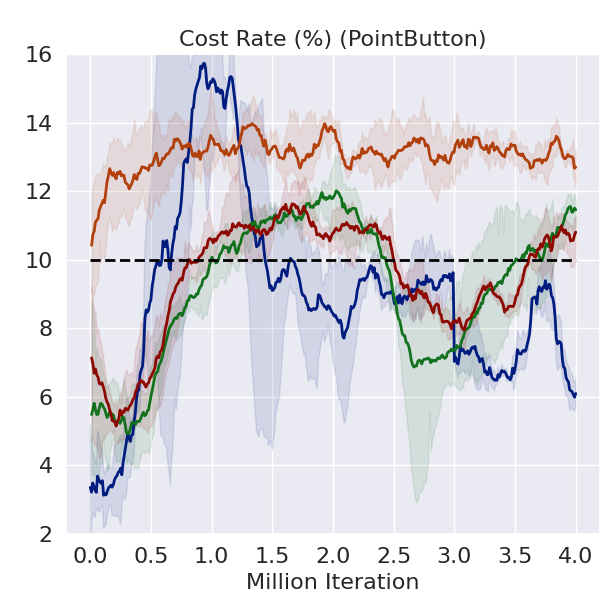
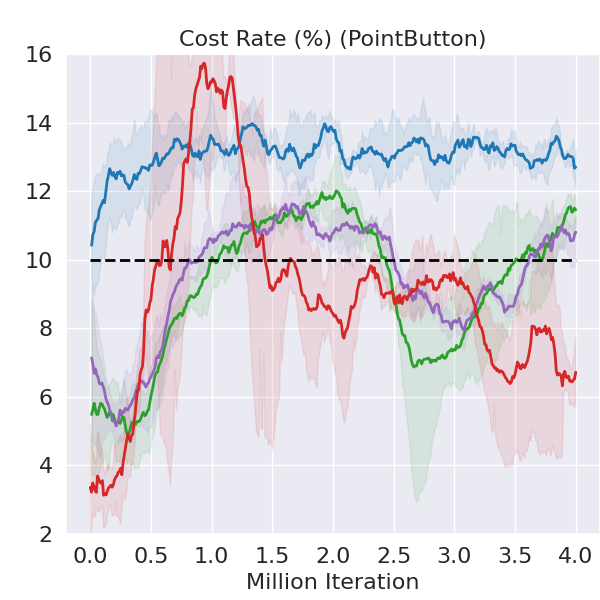
update lineplot

diff --git a/data_process/lineplot_mujoco_raw_spd.py b/data_process/lineplot_mujoco_raw_spd.py
@@ -13,25 +13,26 @@ from tensorboard.backend.event_processing import event_accumulator
 import json
 
 sns.set(style="darkgrid")
-SMOOTHFACTOR = 0.9
+SMOOTHFACTOR = 0.8 # 1 3 7 halfcheetah
 SMOOTHFACTOR2 = 20
-SMOOTHFACTOR3 = 20
+SMOOTHFACTOR3 = 30
 DIV_LINE_WIDTH = 50
 txt_store_alg_list = ['CPO', 'PPO-Lagrangian', 'TRPO-Lagrangian']
-ylim_dict = {'episode_return':{'CarGoal': [-5, 25],'PointButton': [-5, 33]},
-             'episode_cost':{'CarGoal': [0, 28],'PointButton': [2, 16]}} # {'CarGoal': [-5, 25]}
-fsac_bias = {'episode_return':{'PointButton':5,'CarGoal':0,},'episode_cost':{'PointButton':20,'CarGoal':0}}
-fsac_init_bias = {'episode_return':{'PointButton':10,'CarGoal':0,},'episode_cost':{'PointButton':0,'CarGoal':0}}
+base_dict = dict(HalfCheetah=1.5, Ant=1.5, Walker2d=1.5)
+fsac_final_list = ['conti100HalfCheetah-2021-05-13-20-58-14-s4', 'conti100HalfCheetah-2021-05-14-00-33-41-s2'
+                   ,'conti240HalfCheetah-2021-05-14-22-26-58-s3']
+ylim_dict = {'episode_return':{'HalfCheetah': [-1000,2500]},'episode_cost':{}}
+fsac_bias = {'episode_return':{'Ant':-1000,'HalfCheetah':0,'Walker2d':0,},'episode_cost':{'Ant':0.675,'HalfCheetah':0,'Walker2d':0,}}
 
 
 def help_func():
     tag2plot = ['episode_return']
-    alg_list = ['CPO', 'PPO-Lagrangian', 'TRPO-Lagrangian', 'FSAC', ]  # 'FSAC', 'CPO', 'SAC','SAC-Lagrangian',
-    lbs = ['CPO', 'PPO-L', 'TRPO-L', 'FAC', ]  # 'FAC', 'CPO', 'SAC','SAC-Lagrangian',
-    task = ['CarGoal']
-    palette = "dark"
+    alg_list = ['CPO','PPO-Lagrangian','TRPO-Lagrangian','FSAC',  ] # 'FSAC', 'CPO', 'SAC','SAC-Lagrangian',
+    lbs = ['CPO','PPO-L','TRPO-L','FAC',] #  'FAC', 'CPO', 'SAC','SAC-Lagrangian',
+    task = ['Ant']
+    palette = "bright"
     goal_perf_list = [-200, -100, -50, -30, -20, -10, -5]
-    dir_str = '../results/{}/{}/data2plot' # .format(algo name) #
+    dir_str = '../results/{}/{}/data2plot' # .format(algo name) # /data2plot
     return tag2plot, alg_list, task, lbs, palette, goal_perf_list, dir_str
 
 def plot_eval_results_of_all_alg_n_runs(dirs_dict_for_plot=None):
@@ -46,11 +47,12 @@ def plot_eval_results_of_all_alg_n_runs(dirs_dict_for_plot=None):
             data2plot_dir = dir_str.format(alg, task)
             data2plot_dirs_list = dirs_dict_for_plot[alg] if dirs_dict_for_plot is not None else os.listdir(data2plot_dir)
             for num_run, dir in enumerate(data2plot_dirs_list):
-                if not dir.startswith('skip'):
+                if not (dir.startswith('skip')):
                     if alg in txt_store_alg_list:
                         eval_dir = data2plot_dir + '/' + dir
                         print(eval_dir)
                         df_in_one_run_of_one_alg = get_datasets(eval_dir, tag2plot, alg=alg, num_run=num_run)
+                        tag = tag2plot[0]
                     else:
                         eval_dir = data2plot_dir + '/' + dir + '/logs/evaluator'
                         print(eval_dir)
@@ -63,57 +65,74 @@ def plot_eval_results_of_all_alg_n_runs(dirs_dict_for_plot=None):
                             event = event_pb2.Event.FromString(eval_summary.numpy())
                             if dir.startswith('conti150'):
                                 step = int(event.step + 1500000)
-                            elif dir.startswith('conti'):
+                            elif dir.startswith('conti100'):
                                 step = int(event.step + 1000000)
-                            elif dir.startswith('add'):
-                                step = int(event.step + 2800000)
+                            elif dir.startswith('conti40'):
+                                step = int(event.step + 400000)
+                            elif dir.startswith('conti220'):
+                                step = int(event.step + 2200000)
+                            elif dir.startswith('conti240'):
+                                step = int(event.step + 2400000)
+                            elif dir.startswith('short'):
+                                step = int(event.step / 7200) * 10000
                             else:
                                 step = event.step
-                            if step % 10000 == 0:
-                                if (not dir.startswith('add')) and  step > 3000000:
-                                    continue
-                                if dir.startswith('add') and step < 3000000:
-                                    continue
+                            if step <= 3000000:
                                 if dir.startswith('half') and step > 1500000:
                                     continue
-                                if dir.startswith('init') and step > 1000000:
+                                if dir.startswith('init40') and step > 400000:
+                                    continue
+                                if dir.startswith('init100') and step > 2400000:
+                                    continue
+                                if dir.startswith('init150') and step > 1500000:
+                                    continue
+                                if dir.startswith('init240') and step > 2400000:
+                                    continue
+                                if dir.startswith('init220') and step > 2200000:
                                     continue
                                 for v in event.summary.value:
                                     t = tf.make_ndarray(v.tensor)
                                     for tag in tag2plot:
-                                        if tag == v.tag[11:]:
-                                            data_in_one_run_of_one_alg[tag].append((1-SMOOTHFACTOR)*data_in_one_run_of_one_alg[tag][-1] + SMOOTHFACTOR*float(t)
-                                                                                   if data_in_one_run_of_one_alg[tag] else float(t))
-
+                                        if dir.startswith('velo') and tag == 'episode_cost' and v.tag[11:]=='episode_velo_mean':
+                                            data_in_one_run_of_one_alg[tag].append(
+                                                (1 - SMOOTHFACTOR) * data_in_one_run_of_one_alg[tag][
+                                                    -1] + SMOOTHFACTOR * float(t) / 1.69 * 1.490
+                                                if data_in_one_run_of_one_alg[tag] else float(t)/ 1.69 * 1.490)
                                             data_in_one_run_of_one_alg['iteration'].append(int(step))
-                        add_data = []
-                        add_step = []
-                        k = 0
+                                        elif dir.startswith('over') and tag == 'episode_cost' and v.tag[11:]=='episode_velo_mean':
+                                            data_in_one_run_of_one_alg[tag].append(
+                                                (1 - SMOOTHFACTOR) * data_in_one_run_of_one_alg[tag][
+                                                    -1] + SMOOTHFACTOR * float(t) / 240.0 * 136.0
+                                                if data_in_one_run_of_one_alg[tag] else float(t)/ 240.0 * 136.0)
+                                            data_in_one_run_of_one_alg['iteration'].append(int(step))
+                                        # elif alg=='FSAC' and task=='Ant' and tag == 'episode_return' and v.tag[11:]=='episode_return':
+                                        #     data_in_one_run_of_one_alg[tag].append(
+                                        #         (1 - SMOOTHFACTOR) * data_in_one_run_of_one_alg[tag][
+                                        #             -1] + SMOOTHFACTOR * float(t) / 138.0 * 149.0
+                                        #         if data_in_one_run_of_one_alg[tag] else float(t)/ 138.0 * 149.0)
+                                        #     data_in_one_run_of_one_alg['iteration'].append(int(step))
+                                        # elif tag ==  v.tag[11:] :
+                                        elif tag == 'episode_cost' and v.tag[11:] == 'episode_velo_mean':
+                                            data_in_one_run_of_one_alg[tag].append(
+                                                (1 - SMOOTHFACTOR) * data_in_one_run_of_one_alg[tag][
+                                                    -1] + SMOOTHFACTOR * float(t)
+                                                if data_in_one_run_of_one_alg[tag] else float(t))
+                                            data_in_one_run_of_one_alg['iteration'].append(int(step))
+                                        elif tag == 'episode_return' and v.tag[11:]=='episode_return':
+                                            data_in_one_run_of_one_alg[tag].append(
+                                                (1 - SMOOTHFACTOR) * data_in_one_run_of_one_alg[tag][
+                                                    -1] + SMOOTHFACTOR * float(t)
+                                                if data_in_one_run_of_one_alg[tag] else float(t))
+                                            data_in_one_run_of_one_alg['iteration'].append(int(step))
                         for i,d in enumerate(data_in_one_run_of_one_alg[tag]):
                             step = data_in_one_run_of_one_alg['iteration'][i]
                             if step < 1e6:
-                                data_in_one_run_of_one_alg[tag][i] += (1e6 - step) / 1e6 * fsac_init_bias[tag][task]
-                            if step > 2.9e6:
-                                if tag == 'episode_cost':
-                                    data_in_one_run_of_one_alg[tag][i] += (4e6 - step) / 1e6 * fsac_bias[tag][task]
-                                if tag == 'episode_return':
-                                    add_data.append(
-                                        data_in_one_run_of_one_alg[tag][i] - (4e6 - step) / 1e6 * fsac_bias[tag][
-                                            task])  #
-                                    add_step.append(step)
-                                    data_in_one_run_of_one_alg[tag][i] += (4e6 - step) / 1e6 * fsac_bias[tag][task]
-                        if tag == 'episode_return':
-                            print(add_step)
-                            print(add_data)
-                            data_in_one_run_of_one_alg['iteration'] += add_step
-                            data_in_one_run_of_one_alg[tag] += add_data
+                                data_in_one_run_of_one_alg[tag][i] += (1e6 - step) / 1e6 * fsac_bias[tag][task]
                         len1, len2 = len(data_in_one_run_of_one_alg['iteration']), len(data_in_one_run_of_one_alg[tag2plot[0]])
                         period = int(len1/len2)
                         data_in_one_run_of_one_alg['iteration'] = [data_in_one_run_of_one_alg['iteration'][i*period]/1000000. for i in range(len2)]
                         if 'episode_cost' in data_in_one_run_of_one_alg.keys():
-                            data_in_one_run_of_one_alg['episode_cost'] = np.array(data_in_one_run_of_one_alg[
-                                                                             'episode_cost']) / 10
-
+                            data_in_one_run_of_one_alg['episode_cost'] = np.array(data_in_one_run_of_one_alg['episode_cost'])
                         data_in_one_run_of_one_alg.update(dict(algorithm=alg, num_run=num_run))
                         df_in_one_run_of_one_alg = pd.DataFrame(data_in_one_run_of_one_alg)
                         y = np.ones(SMOOTHFACTOR2)
@@ -124,13 +143,17 @@ def plot_eval_results_of_all_alg_n_runs(dirs_dict_for_plot=None):
                             df_in_one_run_of_one_alg[tag] = smoothed_x
                     df_list.append(df_in_one_run_of_one_alg)
                     lendf = len(df_in_one_run_of_one_alg[tag2plot[0]])
-                    if not dir.startswith('init'):
-                        final_results[alg] += list(df_in_one_run_of_one_alg[tag2plot[0]][lendf - 21: lendf - 1])
+                    if alg == 'FSAC' and task == 'HalfCheetah':
+                        if dir in fsac_final_list:
+                            final_results[alg]+= list(df_in_one_run_of_one_alg[tag2plot[0]][lendf-21: lendf-1]) # TODO: consider conti if exists
+                    else:
+                        if not dir.startswith('init'):
+                            final_results[alg] += list(df_in_one_run_of_one_alg[tag2plot[0]][lendf - 21: lendf - 1])
         compare_dict = dump_results(final_results)
         total_dataframe = df_list[0].append(df_list[1:], ignore_index=True) if len(df_list) > 1 else df_list[0]
         figsize = (6,6)
-        axes_size = [0.11, 0.11, 0.89, 0.8] #if env == 'path_tracking_env' else [0.095, 0.11, 0.905, 0.89]
-        fontsize = 16
+        axes_size = [0.13, 0.11, 0.87, 0.75] #if env == 'path_tracking_env' else [0.095, 0.11, 0.905, 0.89]
+        fontsize = 18
         f1 = plt.figure(1, figsize=figsize)
         ax1 = f1.add_axes(axes_size)
         sns.set_palette([(0.12156862745098039, 0.4666666666666667, 0.7058823529411765),
@@ -144,44 +167,45 @@ def plot_eval_results_of_all_alg_n_runs(dirs_dict_for_plot=None):
                          (0.7372549019607844, 0.7411764705882353, 0.13333333333333333),
                          (0.09019607843137255, 0.7450980392156863, 0.8117647058823529)]
                         )
-        sns.lineplot(x="iteration", y=tag2plot[0], hue="algorithm", err_kws={'alpha': 0.1},
-                     data=total_dataframe, linewidth=2, legend=False  # palette=palette,
+        sns.lineplot(x="iteration", y=tag2plot[0], hue="algorithm", err_kws={'alpha':0.1},
+                     data=total_dataframe, linewidth=2 , legend=False # palette=palette,
                      )
-        # legend = True if task == 'CarGoal' and tag == 'episode_cost' else False
-        # if not legend:
-        #     sns.lineplot(x="iteration", y=tag2plot[0], hue="algorithm", markers=True,
-        #                  data=total_dataframe, linewidth=2, palette=palette, legend=False, err_kws={'alpha':0.1}
-        #                  )
-        # else:
-        #     p = sns.lineplot(x="iteration", y=tag2plot[0], hue="algorithm", markers=True,
-        #                  data=total_dataframe, linewidth=2, palette=palette, err_kws={'alpha':0.1}
-        #                  )
-        base = 4 if task == 'PointGoal' else 10
+        base = base_dict[task]
         handles, labels = ax1.get_legend_handles_labels()
+        print(handles)
+        print(labels)
         labels = lbs
         if tag == 'episode_cost':
-            basescore = sns.lineplot(x=[0., 4.], y=[base, base], linewidth=2, color='black', linestyle='--')
-        #     if legend:
-        #         ax1.legend(handles=handles + [basescore.lines[-1]], labels=labels + ['Constraint'], loc='lower right',
-        #                frameon=False, fontsize=fontsize)
-        # else:
-        #     if legend:
-        #         ax1.legend(handles=handles , labels=labels , loc='lower right', frameon=False, fontsize=fontsize)
-        # print(ax1.lines[0].get_data())
+            basescore = sns.lineplot(x=[0., 3.], y=[base, base], linewidth=2, color='black', linestyle='--')
+        # handles_ = [handles[-1]] + handles[:-1] + [basescore.lines[-1]]
+        #
+        # labels_ = [labels[-1]] + labels[:-1] + ['Constraint']
         ax1.set_ylabel('')
         ax1.set_xlabel("Million Iteration", fontsize=fontsize)
         print(compare_dict)
-        # title = 'Episode Return {} \n {:+.0%} {:+.0%} {:+.0%}\n over TRPO-L, CPO, PPO-L'\
-        #     .format(task, compare_dict['TRPO-Lagrangian'], compare_dict['CPO'], compare_dict['PPO-Lagrangian']) if tag == 'episode_return' else 'Episode Cost'
-        title = 'Reward ({})'.format(task) if tag == 'episode_return' else 'Cost Rate (%) ({})'.format(task)
+        title = 'Reward ({}) \n {:+.0%}, {:+.0%}, {:+.0%}\n over CPO, TRPO-L, PPO-L'\
+            .format(task, compare_dict.get('CPO'), compare_dict.get('TRPO-Lagrangian'), compare_dict.get('PPO-Lagrangian')) if tag == 'episode_return' else 'Speed ({})'.format(task)
+        ax1.set_title(title, fontsize=fontsize)
+        # ax1.set_xlim(0,3)
         if task in ylim_dict[tag]:
             ax1.set_ylim(*ylim_dict[tag][task])
-        ax1.set_title(title, fontsize=fontsize)
         plt.yticks(fontsize=fontsize)
         plt.xticks(fontsize=fontsize)
         # plt.show()
-        fig_name = '../data_process/figure/' + task+'-'+tag + '.png'
+        fig_name = '../data_process/figure/' + task+'-'+tag + 'spd.png'
         plt.savefig(fig_name)
+        # legfig, legax = plt.subplots(figsize=(8, 1))
+        # legax.set_facecolor('white')
+        # if legend:
+        #     leg = legax.legend(handles=handles_, labels=labels_ + ['Constraint'],
+        #                        loc='center',
+        #                        frameon=False, fontsize=fontsize, ncol=5, borderaxespad=0., mode='expand',
+        #                        handlelength=1.5)
+        #     legax.xaxis.set_visible(False)
+        #     legax.yaxis.set_visible(False)
+        #     plt.tight_layout(pad=0.5)
+        #     fig_name2 = '../data_process/figure/legend.png'
+        #     plt.savefig(fig_name2)
         # allresults = {}
         # results2print = {}
         #
@@ -197,7 +221,6 @@ def plot_eval_results_of_all_alg_n_runs(dirs_dict_for_plot=None):
         #     results2print.update({alg: [mean, 2 * std]})
         #
         # print(results2print)
-
 
 def get_datasets(logdir, tag2plot, alg, condition=None, smooth=SMOOTHFACTOR3, num_run=0):
     """
@@ -218,11 +241,15 @@ def get_datasets(logdir, tag2plot, alg, condition=None, smooth=SMOOTHFACTOR3, nu
             except:
                 print('Could not read from %s'%os.path.join(root,'progress.txt'))
                 continue
+            if len(exp_data) > 1500: exp_data = exp_data[:1500]
             performance = 'AverageTestEpRet' if 'AverageTestEpRet' in exp_data else 'AverageEpRet'
             exp_data.insert(len(exp_data.columns),'Performance',exp_data[performance])
             exp_data.insert(len(exp_data.columns),'algorithm',alg)
-            exp_data.insert(len(exp_data.columns), 'iteration', exp_data['TotalEnvInteracts']/1000000/3*4)
-            exp_data.insert(len(exp_data.columns), 'episode_cost', exp_data['AverageEpCost'] / 10)
+            exp_data.insert(len(exp_data.columns), 'iteration', exp_data['TotalEnvInteracts']/1000000)
+            try:
+                exp_data.insert(len(exp_data.columns), 'episode_cost', exp_data['AverageAvgEpVelo'])
+            except:
+                exp_data.insert(len(exp_data.columns), 'episode_cost', exp_data['AverageEpCost'] / 100)
             exp_data.insert(len(exp_data.columns), 'episode_return', exp_data['AverageEpRet'])
             exp_data.insert(len(exp_data.columns), 'num_run', num_run)
             datasets.append(exp_data)

diff --git a/data_process/lineplot_cargoal.py b/data_process/lineplot_cargoal.py
@@ -13,19 +13,19 @@ from tensorboard.backend.event_processing import event_accumulator
 import json
 
 sns.set(style="darkgrid")
-SMOOTHFACTOR = 0.9
+SMOOTHFACTOR = 0.1
 SMOOTHFACTOR2 = 20
 SMOOTHFACTOR3 = 20
 DIV_LINE_WIDTH = 50
 txt_store_alg_list = ['CPO', 'PPO-Lagrangian', 'TRPO-Lagrangian']
 ylim_dict = {'episode_return':{'CarGoal': [-5, 25],'PointButton': [-5, 33]},
              'episode_cost':{'CarGoal': [0, 28],'PointButton': [2, 16]}} # {'CarGoal': [-5, 25]}
-fsac_bias = {'episode_return':{'PointButton':5,'CarGoal':0,},'episode_cost':{'PointButton':20,'CarGoal':0}}
+fsac_bias = {'episode_return':{'PointButton':5,'CarGoal':0,},'episode_cost':{'PointButton':20,'CarGoal':-50}}
 fsac_init_bias = {'episode_return':{'PointButton':10,'CarGoal':0,},'episode_cost':{'PointButton':0,'CarGoal':0}}
 
 
 def help_func():
-    tag2plot = ['episode_return']
+    tag2plot = ['episode_cost']
     alg_list = ['CPO', 'PPO-Lagrangian', 'TRPO-Lagrangian', 'FSAC', ]  # 'FSAC', 'CPO', 'SAC','SAC-Lagrangian',
     lbs = ['CPO', 'PPO-L', 'TRPO-L', 'FAC', ]  # 'FAC', 'CPO', 'SAC','SAC-Lagrangian',
     task = ['CarGoal']
@@ -69,9 +69,7 @@ def plot_eval_results_of_all_alg_n_runs(dirs_dict_for_plot=None):
                                 step = int(event.step + 2800000)
                             else:
                                 step = event.step
-                            if step % 10000 == 0:
-                                if (not dir.startswith('add')) and  step > 3000000:
-                                    continue
+                            if step <= 4000000 and step % 10000 == 0:
                                 if dir.startswith('add') and step < 3000000:
                                     continue
                                 if dir.startswith('half') and step > 1500000:
@@ -95,7 +93,7 @@ def plot_eval_results_of_all_alg_n_runs(dirs_dict_for_plot=None):
                                 data_in_one_run_of_one_alg[tag][i] += (1e6 - step) / 1e6 * fsac_init_bias[tag][task]
                             if step > 2.9e6:
                                 if tag == 'episode_cost':
-                                    data_in_one_run_of_one_alg[tag][i] += (4e6 - step) / 1e6 * fsac_bias[tag][task]
+                                    data_in_one_run_of_one_alg[tag][i] += (step - 3e6) / 1e6 * fsac_bias[tag][task]
                                 if tag == 'episode_return':
                                     add_data.append(
                                         data_in_one_run_of_one_alg[tag][i] - (4e6 - step) / 1e6 * fsac_bias[tag][
